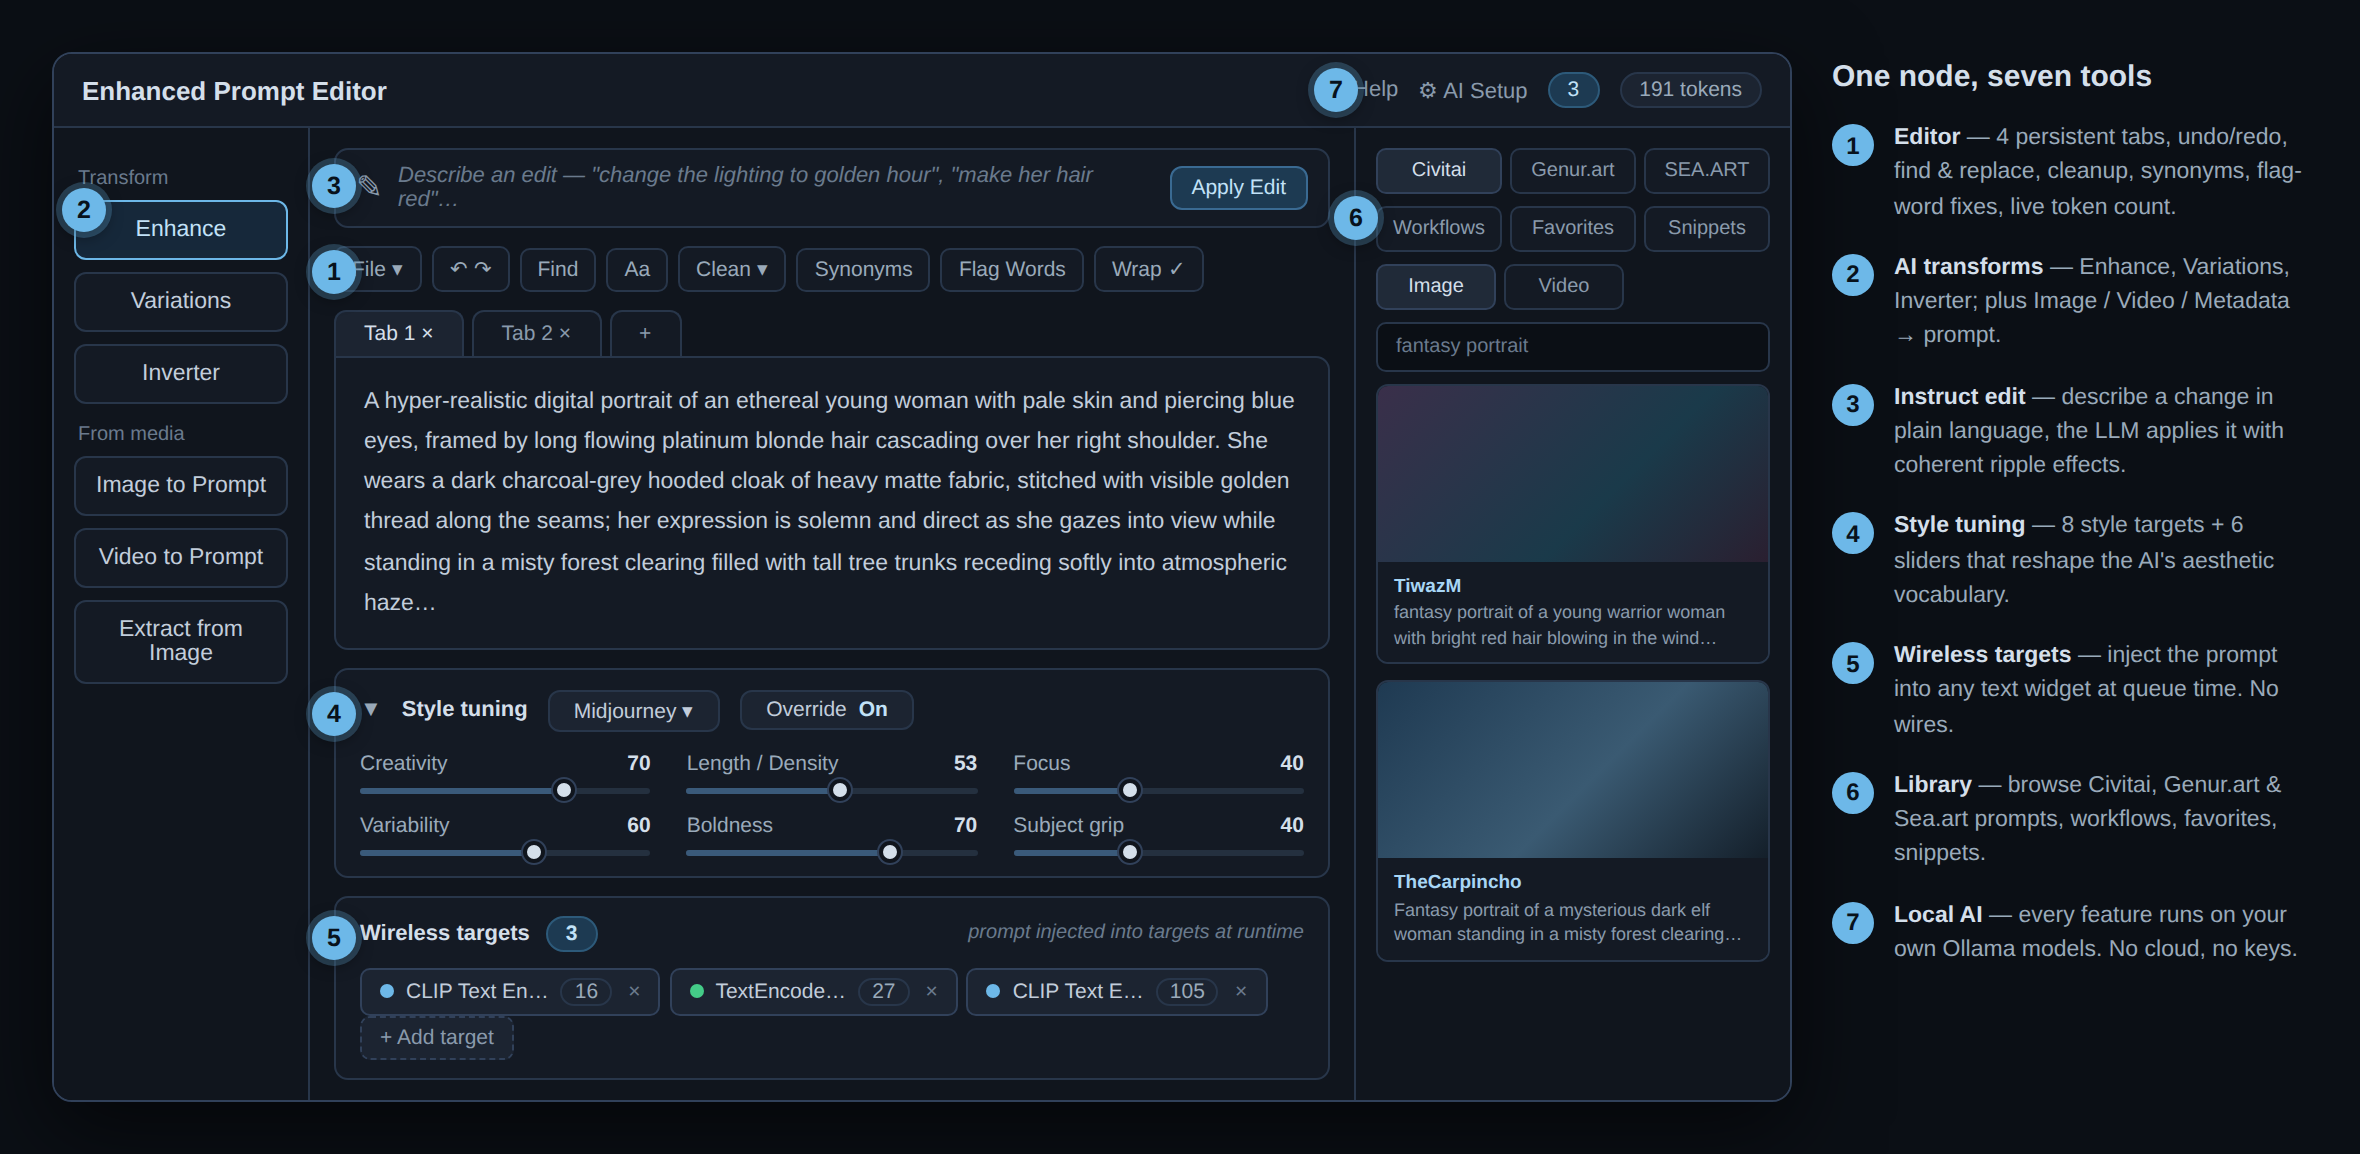
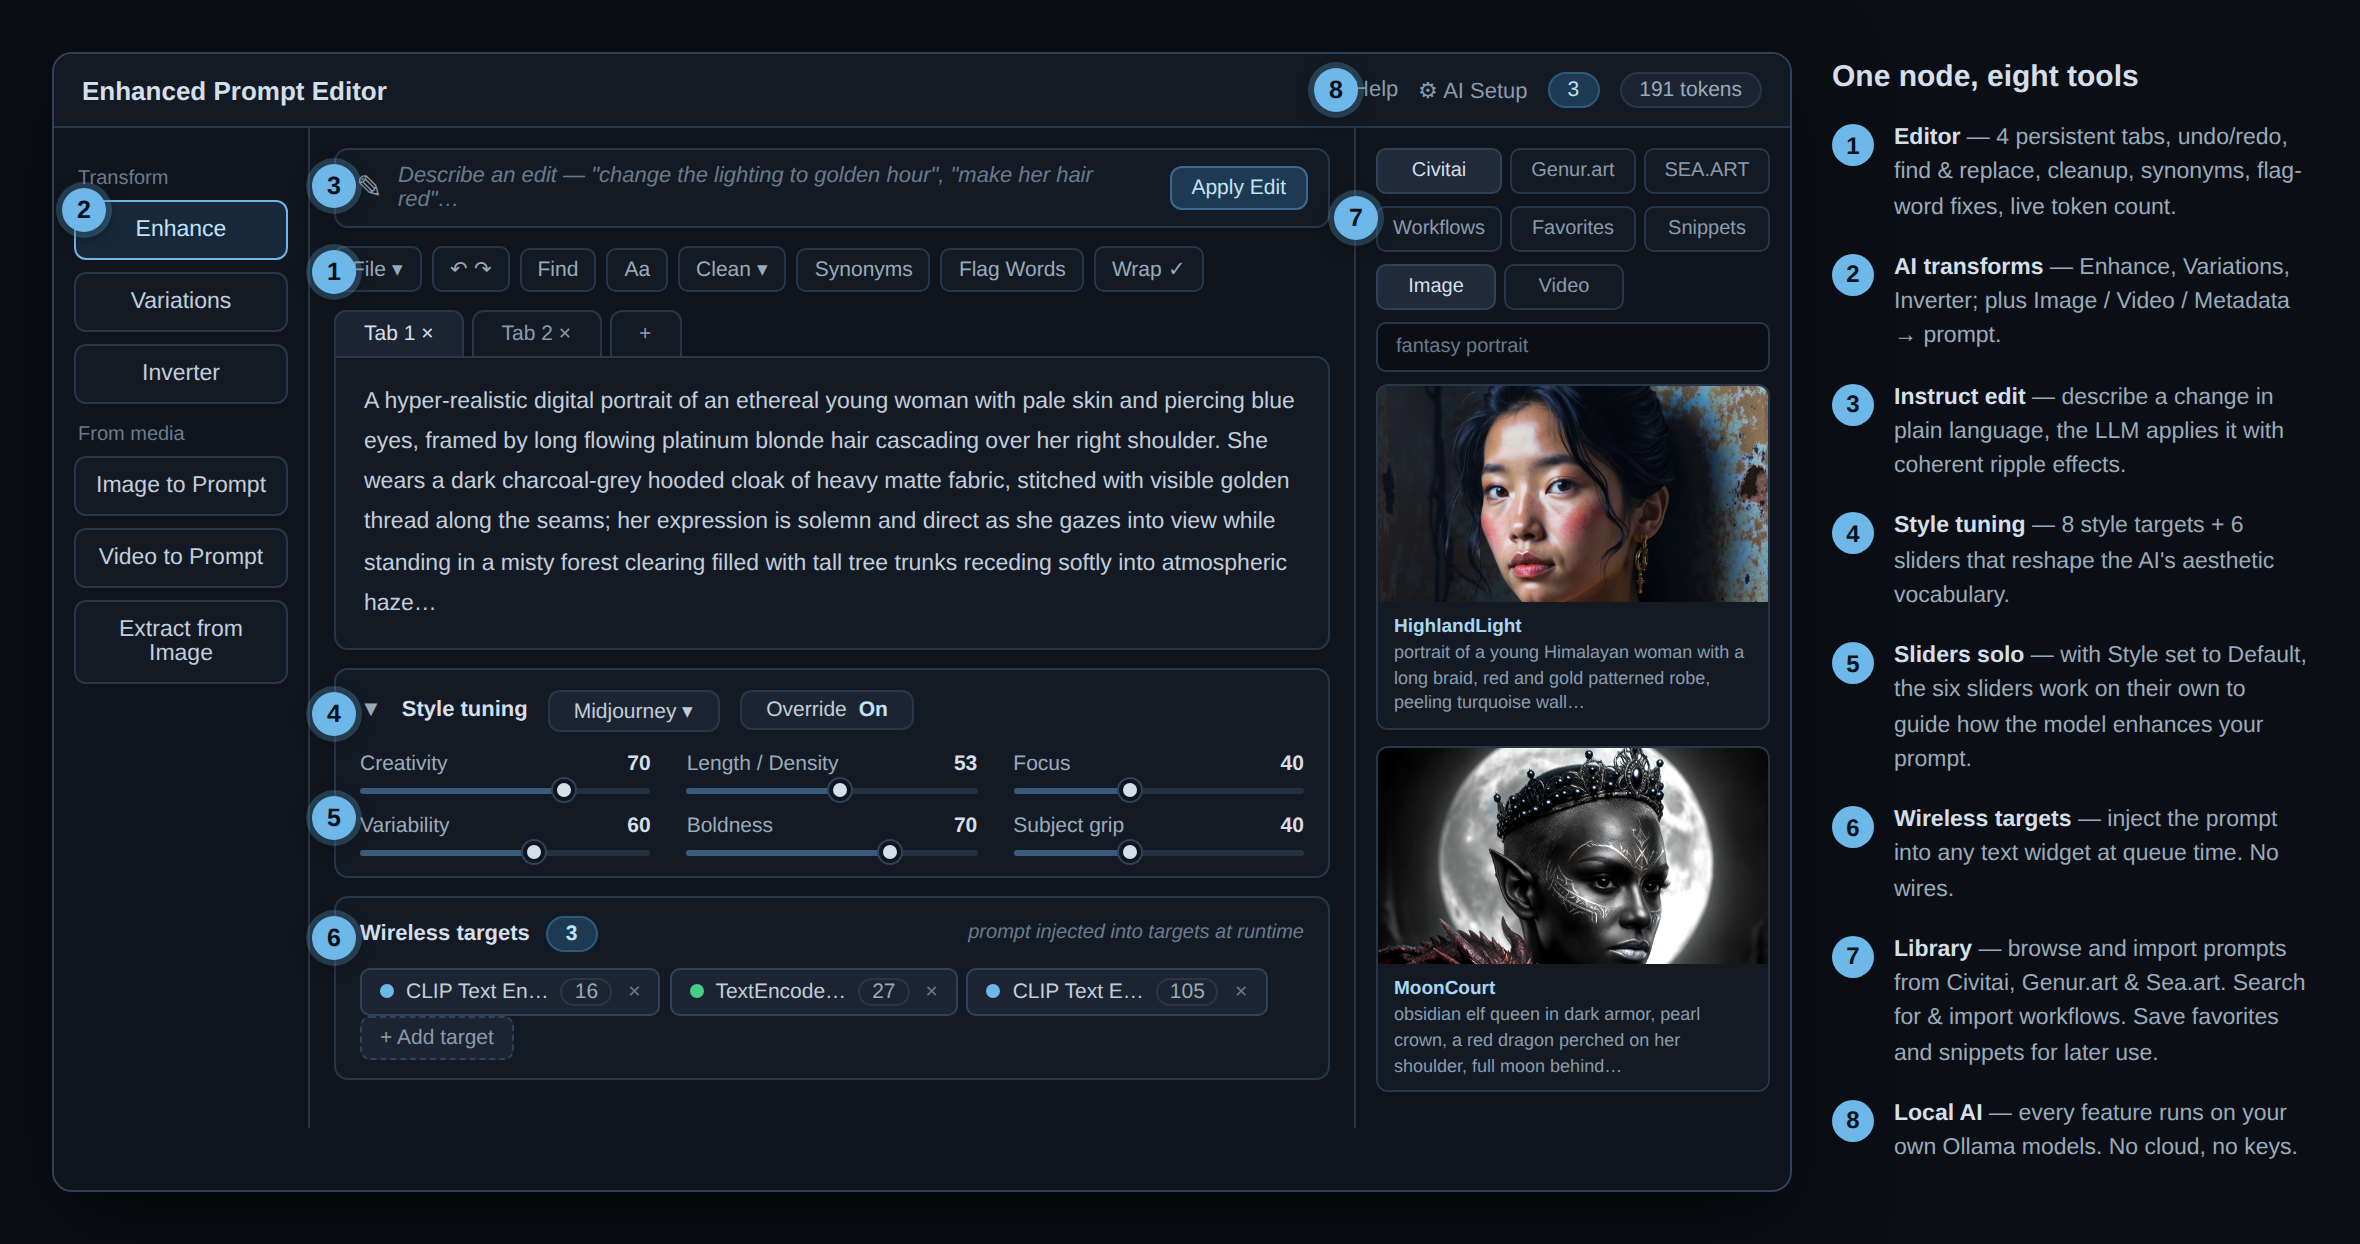
Add library, workflows, favorites, and target-picker demos; Ollama setup guide
- Library section: search, detail card, Use, and Image to Prompt demo
- Workflows: search and one-click Load Workflow with real graph screenshots
- Favorites & Snippets: save and reuse demo
- Wireless targets: picker demo for adding a CLIP Text Encode target
- Anatomy updated: eight tools incl. sliders-solo tip; Setting up Ollama guide
- Restore 'Extract from Image' wording; new support line

Changed region(s): [[0.0, 0.0312, 0.9898, 0.9671]]

diff --git a/README.md b/README.md
@@ -34,7 +34,7 @@ EPE replaces the humble prompt textbox with a complete writing environment. Writ
 
 **Instruct edit** — Type a natural-language change and the LLM applies it with coherent ripple effects: changing gender also updates pronouns, clothing, and hair; changing season updates lighting, sky, and environment. Streams live into the editor with apply/undo.
 
-**From media** — **Image to Prompt** captions any image into a usable prompt (vision model required). **Video to Prompt** samples frames from a clip and writes an image prompt. **Extract from Image** pulls the embedded prompt/workflow from PNG metadata.
+**From media** — **Image to Prompt** captions any image into a usable prompt (vision model required). **Video to Prompt** samples frames from a clip and writes an image prompt. **Extract from Image** pulls an embedded prompt (from embedded workflow) from PNG metadata.
 
 **Style tuning** — 8 style targets and 6 sliders that reshape the AI's aesthetic vocabulary, not just an appended suffix.
 
@@ -78,6 +78,21 @@ Restart ComfyUI after installation.
 
 > Model quality matters: larger models follow the style system noticeably better.
 
+### Setting up Ollama
+
+1. **Install Ollama** — download the installer for Windows or macOS from [ollama.com/download](https://ollama.com/download) and run it. On Linux: `curl -fsSL https://ollama.com/install.sh | sh`. Once installed, Ollama runs quietly in the background.
+2. **Download a model** — open a terminal (Command Prompt / PowerShell on Windows) and pull a model:
+
+```bash
+# a text model for Enhance, Variations, Instruct edit, Synonyms…
+ollama pull ministral
+
+# a vision model for Image to Prompt / Video to Prompt
+ollama pull qwen3-vl
+```
+
+3. **Verify** — `ollama list` shows your installed models. That's it: EPE finds them automatically in **⚙ AI Setup**.
+
 ## Quick start
 
 1. Add the node: double-click the canvas → search **Enhanced Prompt Editor**
@@ -114,6 +129,38 @@ Select target nodes once — every queue injects the current prompt into all of 
 <img src="assets/wireless.gif" alt="Wireless targets: prompt injected into CLIP Text Encode at queue time" width="840">
 </div>
 
+### Adding a target
+
+Click **+ Add target** and a picker opens listing every text widget in your graph — subgraphs included, searchable by node name, widget, or ID. Pick your CLIP Text Encode and its chip joins the bar; the number on the chip is the node's ID, and widgets that are already targets are marked so you can't double-add them.
+
+<div align="center">
+<img src="assets/targetpicker.gif" alt="Adding a wireless target: the picker lists every text widget in the graph" width="840">
+</div>
+
+## Library
+
+Search **Civitai**, **Genur.art**, and **Sea.art** without leaving the node — image *and* video results, with infinite scroll. Open any result to see its full prompt on a detail card: **Use** sends it to the main editor, **Enhance** / **Variations** transform it on the spot, and **Save as New** / **Snippets** file it into your collections. The media itself is workable too — **Image to Prompt** (or **Video to Prompt** on video results) writes a fresh prompt from the image using your vision model.
+
+<div align="center">
+<img src="assets/library.gif" alt="Library: search, open the detail card, Use the prompt, and run Image to Prompt" width="840">
+</div>
+
+### Workflows
+
+Results whose images carry an embedded ComfyUI graph appear in the **Workflows** tab — one click on **⬇ Load Workflow** opens the full node graph on your canvas, ready to queue.
+
+<div align="center">
+<img src="assets/workflows.gif" alt="Workflows: search and load a full ComfyUI graph from the library" width="640">
+</div>
+
+### Favorites & Snippets
+
+Two personal collections: **Favorites** store whole prompts (save from the File ▾ menu or any detail card); **Snippets** are reusable fragments — click one and it drops straight into your prompt.
+
+<div align="center">
+<img src="assets/favsnips.gif" alt="Favorites store whole prompts; snippets drop fragments into the editor" width="840">
+</div>
+
 ## Notes
 
 - Everything runs locally — no cloud APIs, no keys
@@ -125,7 +172,7 @@ Select target nodes once — every queue injects the current prompt into all of 
 
 Bugs and feature requests → [open an issue](https://github.com/pixelpainter/comfyui-AI-prompt-editor/issues).
 
-If EPE has earned a place in your workflow, a star helps others find it — and there's always [coffee](https://buymeacoffee.com/pixelpainter). ☕
+⭐ If EPE has earned a place in your workflow, a star helps others find it — and I always love a good cup of [coffee](https://buymeacoffee.com/pixelpainter). ☕
 
 ## License
 
